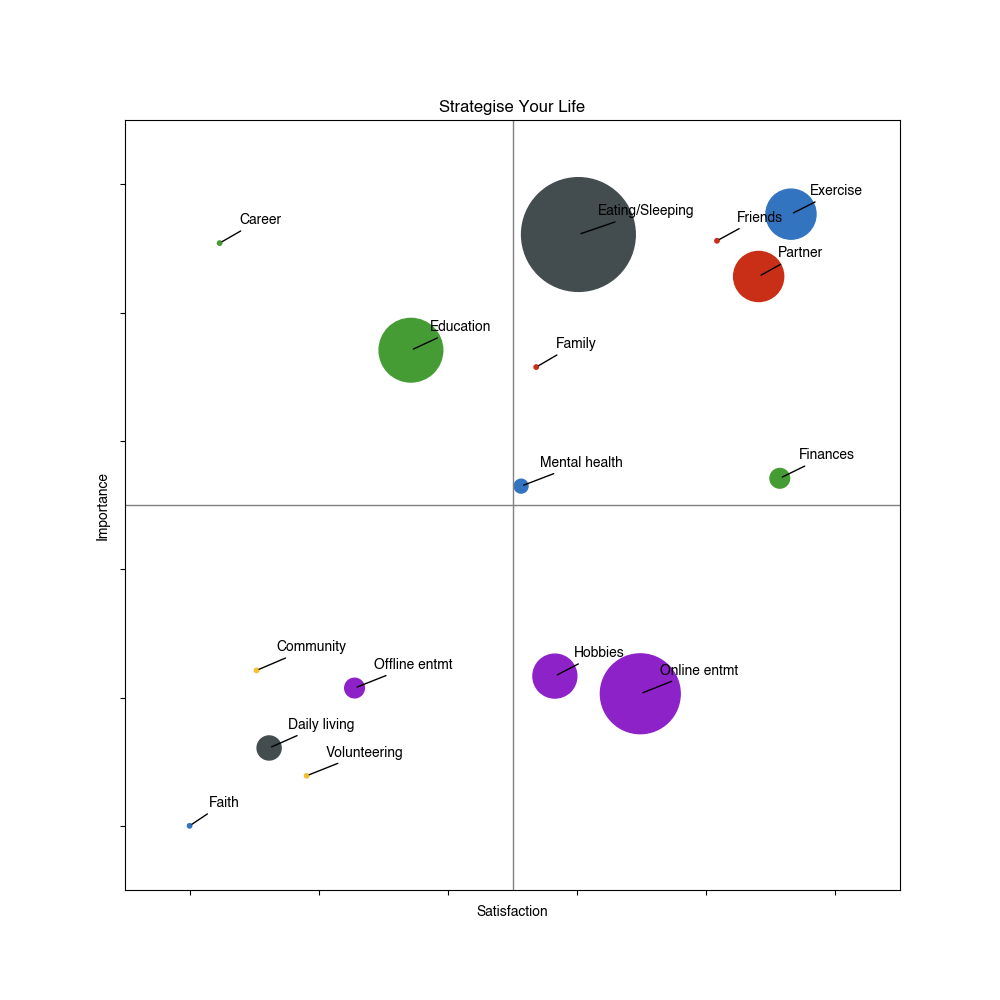
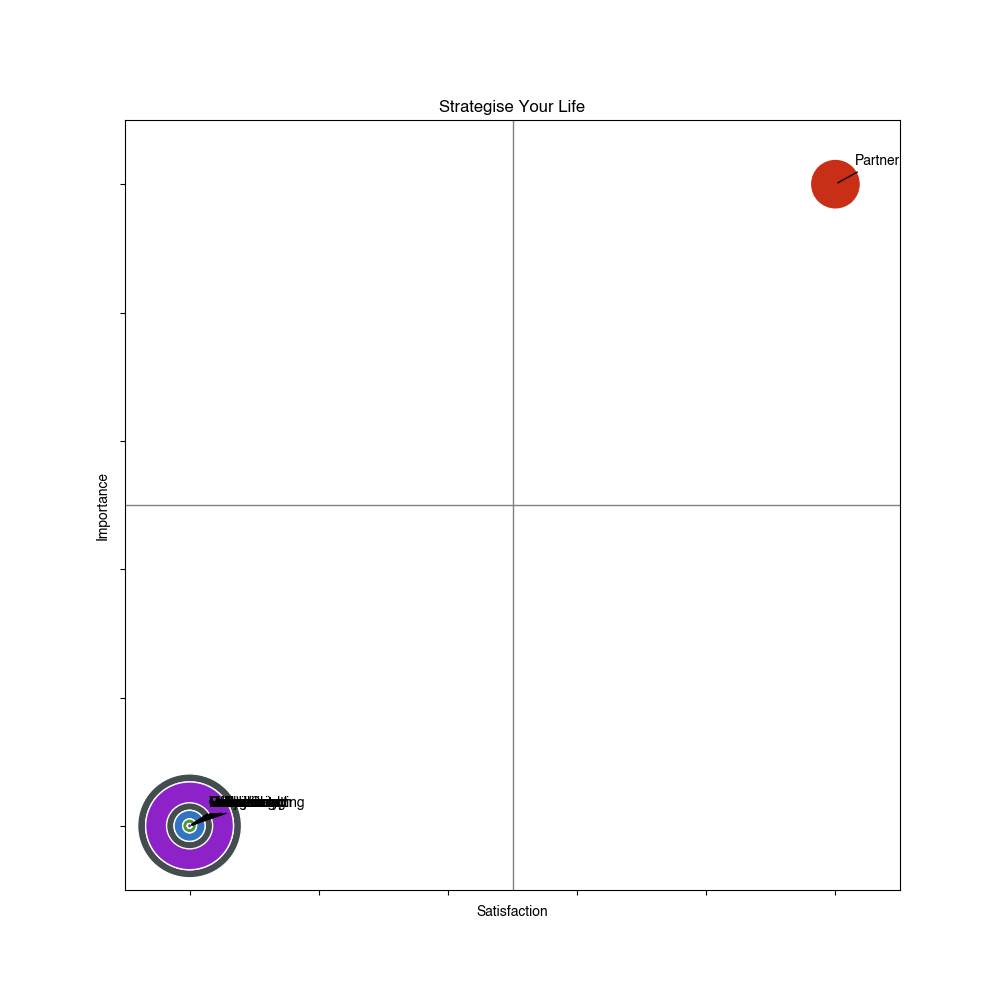
Update to layer smaller circles on top

diff --git a/website/templates/home.html b/website/templates/home.html
@@ -3,6 +3,10 @@
 
 {% block table_content %}
 <form method="POST">
+  <div>
+    Satisfaction: How staisfied with the unit are you now.<br>
+    Importance: How importance each unit is to you.
+  </div>
   <table>
     <thead>
       <tr>

diff --git a/website/visuals.py b/website/visuals.py
@@ -11,6 +11,12 @@ def CreateVisual():
 
   df = pd.read_sql('SELECT * FROM strategise_your_life', conn)
 
+  #updates the sort order to put the smaller dots on top
+  df = df.sort_values(by="timeInvested", ascending=False)
+
+  #resets the data frames index to ensure the labels and points align
+  df = df.reset_index(drop=True)
+
   #loading the font
   hfont = {'fontname':'Helvetica'}
   
@@ -43,7 +49,8 @@ def CreateVisual():
   plt.plot([-10,110],[50,50], linewidth=1, color='grey' )
 
   #Plots the data points
-  plt.scatter(df['satisfaction'], df['importance'], df['timeInvested']*100, c=colour_list)
+  plt.scatter(df['satisfaction'], df['importance'], df['timeInvested']*100, c=colour_list, edgecolors='white')
+  print(df['satisfaction'])
 
   #adds the labels to the points
   for i, txt in enumerate(df['strategicLifeUnits']):
